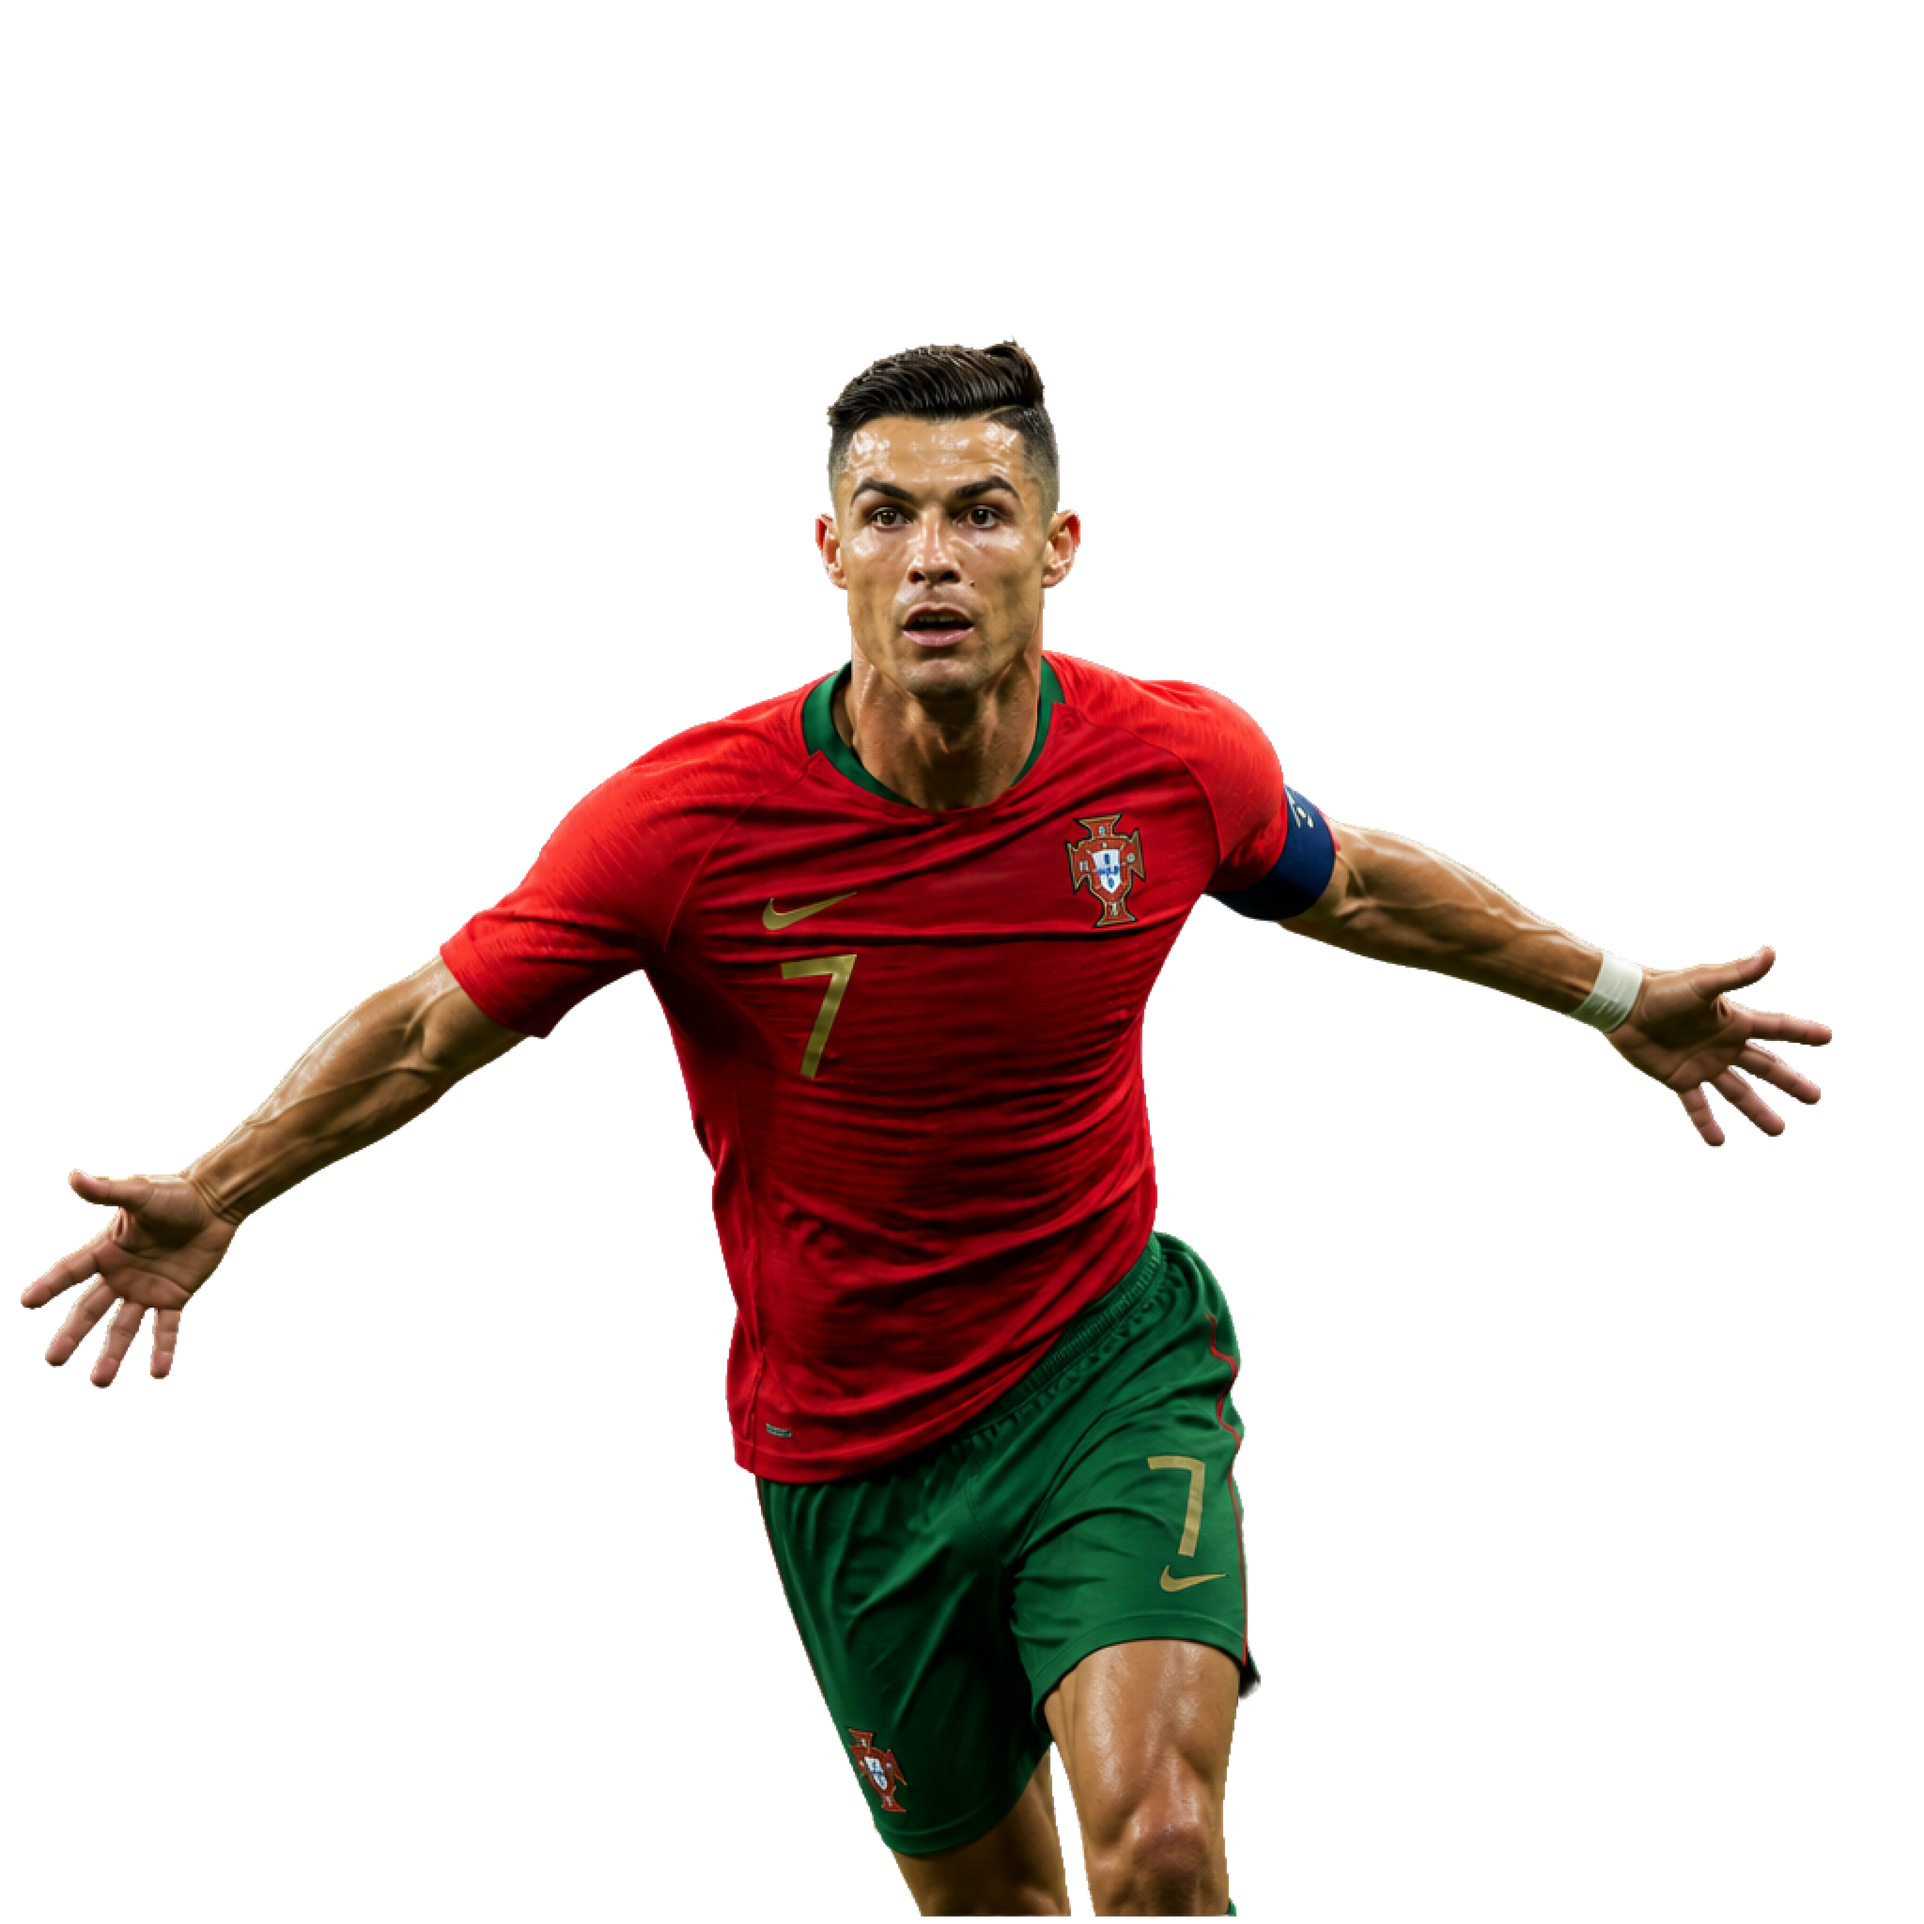
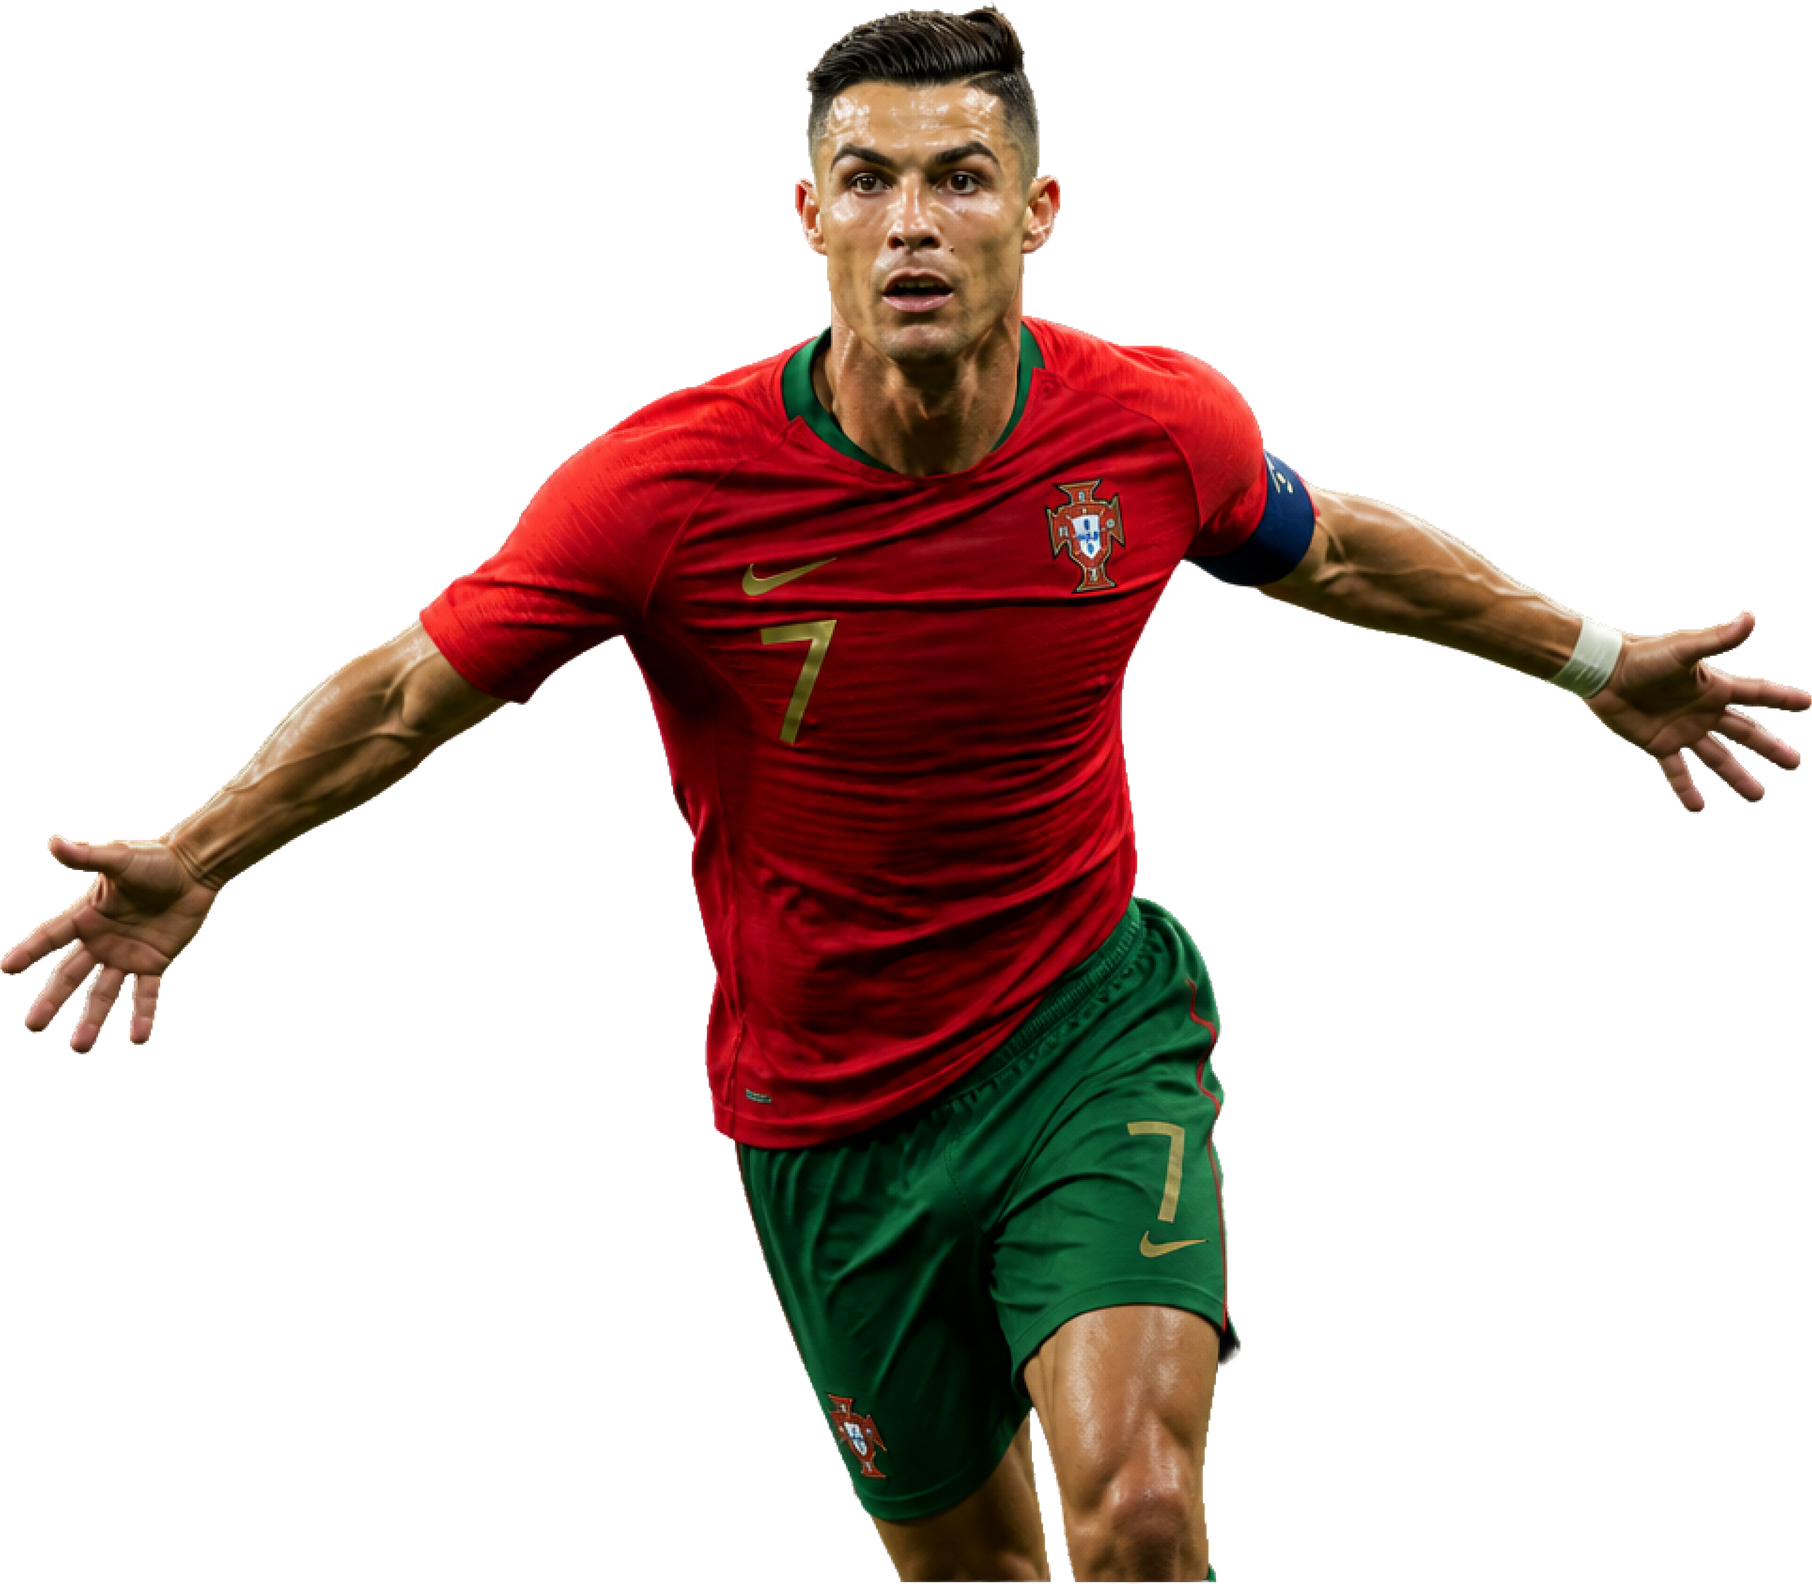
Use #BCBCBC for inner elements on white cards, pin Ronaldo to the block floor, and fill Watch/Understand pills with match cameras.

Changed region(s): [[0.0, 0.0, 1.0, 1.0]]

diff --git a/app/globals.css b/app/globals.css
@@ -1250,6 +1250,19 @@ button {
   background: var(--bg-accent);
 }
 
+.pill--photo {
+  overflow: hidden;
+  padding: 0;
+  background: var(--bg-ink);
+}
+
+.pill--photo img {
+  width: 100%;
+  height: 100%;
+  object-fit: cover;
+  object-position: center;
+}
+
 .display-word--center {
   text-align: center;
 }
@@ -1402,7 +1415,8 @@ button {
   grid-template-columns: repeat(4, minmax(0, 1fr));
   grid-template-rows: repeat(5, min-content);
   gap: 40px;
-  overflow: visible;
+  min-height: 760px;
+  overflow: hidden;
 }
 
 .player-facts .section-title {
@@ -1418,18 +1432,21 @@ button {
 
 .player-facts__photo {
   position: absolute;
-  left: 50%;
-  bottom: 0;
-  top: auto;
+  inset: 0;
   z-index: 2;
-  max-height: 100%;
-  width: auto;
-  max-width: 90%;
-  height: auto;
-  object-fit: contain;
-  object-position: bottom center;
-  transform: translateX(-50%);
+  width: 100%;
+  height: 100%;
+  max-width: none;
+  max-height: none;
+  object-fit: cover;
+  object-position: center bottom;
   pointer-events: none;
+}
+
+@media (min-width: 1600px) {
+  .player-facts {
+    min-height: 950px;
+  }
 }
 
 .player-note,
@@ -1645,15 +1662,7 @@ button {
   .player-facts {
     width: min(100% - var(--page-gutter) * 2, 1060px);
     padding-inline: 0;
-  }
-
-  .player-facts__photo {
-    max-height: 100%;
-    width: auto;
-    max-width: 95%;
-    bottom: 0;
-    top: auto;
-    object-position: bottom center;
+    min-height: 720px;
   }
 
   .year-card--chart {
@@ -1834,6 +1843,7 @@ button {
     width: calc(100% - var(--page-gutter) * 2);
     padding-inline: 0;
     gap: 32px;
+    min-height: 640px;
   }
 
   .player-facts .section-title {
@@ -1846,21 +1856,6 @@ button {
     line-height: var(--leading-h2);
     padding: 32px;
     min-height: 118px;
-  }
-
-  .player-facts__photo {
-    position: absolute;
-    left: 50%;
-    bottom: 0;
-    top: auto;
-    max-height: 100%;
-    width: auto;
-    max-width: 90%;
-    height: auto;
-    object-fit: contain;
-    object-position: bottom center;
-    transform: translateX(-50%);
-    z-index: 2;
   }
 
   .player-note,
@@ -2093,15 +2088,7 @@ button {
     width: calc(100% - var(--page-gutter) * 2);
     grid-template-columns: 1fr 1fr;
     gap: 16px;
-  }
-
-  .player-facts__photo {
-    bottom: 0;
-    top: auto;
-    max-height: 100%;
-    width: auto;
-    max-width: 95%;
-    object-position: bottom center;
+    min-height: 520px;
   }
 
   .hud {

diff --git a/components/sections/landing.tsx b/components/sections/landing.tsx
@@ -338,9 +338,13 @@ export function MomentsSection() {
       <div className="shell">
         <div className="moments-type">
           <div className="moments-row">
-            <i className="pill" />
+            <i className="pill pill--photo">
+              <img src="/figma/landing/camera-referee.png" alt="" />
+            </i>
             <p className="display-word">Watch</p>
-            <i className="pill pill--accent" />
+            <i className="pill pill--photo">
+              <img src="/figma/landing/camera-player.png" alt="" />
+            </i>
           </div>
           <div className="moments-row moments-row--end">
             <span className="icon-pill icon-pill--wide">
@@ -352,7 +356,9 @@ export function MomentsSection() {
           </div>
           <p className="display-word display-word--center reveal-title"><span>Understand</span></p>
           <div className="moments-row">
-            <i className="pill pill--accent" />
+            <i className="pill pill--photo pill--accent">
+              <img src="/figma/landing/camera-behind-goal.png" alt="" />
+            </i>
             <p className="display-kicker">the</p>
             <p className="display-word">moment</p>
             <p className="moments-chip">How Germany went to the championship in 2014</p>
@@ -438,7 +444,13 @@ export function PlayerFactsSection() {
       <PlayerFactsMotion />
       <div className="player-facts player-facts--motion">
         <h2 className="section-title section-title--center section-title--display reveal-title"><span>{playerFacts.title}</span></h2>
-        <img className="player-facts__photo" src="/figma/landing/ronaldo.png" alt="Cristiano Ronaldo" />
+        <img
+          className="player-facts__photo"
+          src="/figma/landing/ronaldo.png"
+          alt="Cristiano Ronaldo"
+          width={3858}
+          height={3372}
+        />
         <article className="player-note player-note--career reveal-card">
           <p className="fact-card__tag">
             <i className="status-dot" />

diff --git a/tokens/semantic.css b/tokens/semantic.css
@@ -26,4 +26,5 @@
 .section--experience,
 .site-footer {
   --card-bg: #dedede;
+  --bg-muted: #bcbcbc;
 }
